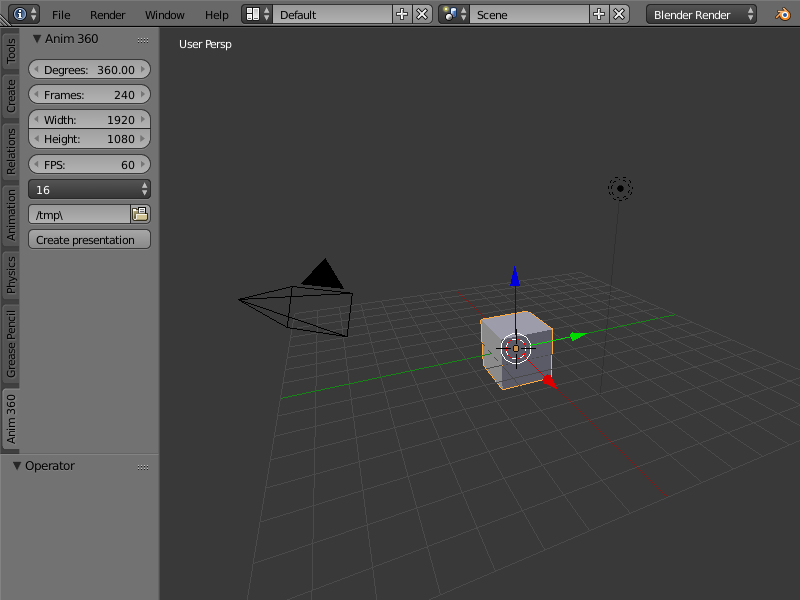
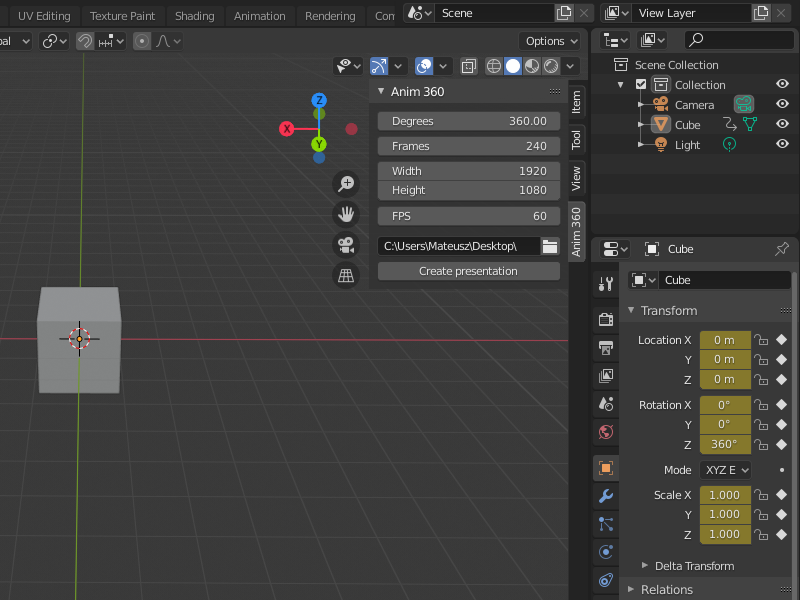
Blender 2.8x

diff --git a/main.py b/main.py
@@ -24,6 +24,7 @@ bl_info = {
     "description": "Plugin saves rotation animation as AVI file.",
     "author": "Mateusz Dera",
     "version": (1, 0),
+    "blender": (2, 80, 0),
     "tracker_url": "",
     "category": "Render"
 }
@@ -40,7 +41,7 @@ class create(bpy.types.Operator):
         
         obj = None
         
-        obj = bpy.context.scene.objects.active
+        obj = bpy.context.object
             
         obj.animation_data_clear()
         
@@ -56,12 +57,6 @@ class create(bpy.types.Operator):
         context.scene.render.resolution_y = context.scene.anim360height
         context.scene.frame_end = context.scene.anim360frames
         
-        if context.scene.anim360samples == "DISABLED":
-            bpy.context.scene.render.use_antialiasing = False
-        else:
-            bpy.context.scene.render.use_antialiasing = True
-            bpy.context.scene.render.antialiasing_samples = context.scene.anim360samples
-        
         bpy.context.scene.render.fps = context.scene.anim360fps 
         bpy.context.scene.render.fps_base = 1
         
@@ -74,7 +69,7 @@ class create(bpy.types.Operator):
 class main_panel(bpy.types.Panel):
     bl_idname = "panel.main_panel"
     bl_space_type = "VIEW_3D"
-    bl_region_type = "TOOLS"
+    bl_region_type = "UI"
     bl_label = "Anim 360"
     bl_category = "Anim 360"
 
@@ -102,8 +97,6 @@ class main_panel(bpy.types.Panel):
         layout.operator("anim360.create", text="Create presentation")
  
 def register() :
-    samples = [("16", "16", "16 samples"),("11", "11", "11 samples"),("8", "8", "8 samples"),("5", "5", "5 samples"),("DISABLED", "Disabled", "Disabled Anti-Aliasing")]
-    
     bpy.utils.register_class(create)
     bpy.utils.register_class(main_panel)
     bpy.types.Scene.anim360degrees = bpy.props.FloatProperty \
@@ -142,12 +135,6 @@ def register() :
         default = 60,
         min=24,
         max=240
-      )
-    bpy.types.Scene.anim360samples = bpy.props.EnumProperty \
-      (
-        name = "", 
-        description = "Anti-Aliasing samples",
-        items=samples
       )
     bpy.types.Scene.anim360path = bpy.props.StringProperty \
       (

diff --git a/README.md b/README.md
@@ -1,4 +1,5 @@
-# Anim-360
+# Anim 360
 * Plugin saves rotation animation as AVI file.
-* Blender 2.7x
+* Blender 2.8x
+* Blender 2.7x version: https://github.com/Mateusz-Dera/Anim-360/tree/2.7x
 ![](example.gif)
